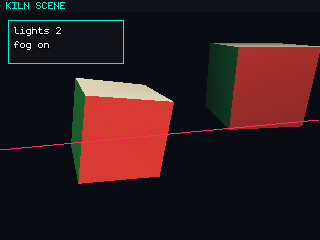
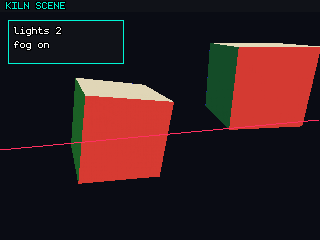
plat/host: fog is Tiny3D's clip-z ramp, blended per pixel, as the console draws it
Fixes: the host fogged vertex colour linearly over view depth from fog near
to fog far. Tiny3D's ucode does something else: t3d_fog_set_range uploads
offset = -2*near (s16.16) and scale = floor(16384/(far-near)), and per vertex
the RSP takes CLIP z, adds the offset, keeps the integer lane, multiplies by
the scale (saturating) and writes (32767 - that) >> 7 into shade alpha. With
Tiny3D's projection clip z = f*(d - 2n)/(f - n), so the fogged fraction is
about (clip_z - 2*near) / (2*(far - near)) and depends on the CAMERA's near
plane too. Fog 100..400 under a 10..2000 camera starts near d = 219 and is
total near d = 816; the host had it total at 400, so every demo tuned in Ares
rendered far foggier on PC (openworld-demo's island was fogged out entirely).
The host also ignored rdpq_mode_fog, so the RSP half alone fogged, and it
asserted on Tiny3D's (0,0) "fog off" range.

Now: host_t3d.c ports t3d_fog_set_range's formats and the ucode's lane
arithmetic, replaces shade alpha at vertex load, and blends toward the fog
colour per pixel only while rdpq_mode_fog is set (host_gfx.c stores it;
rdpq_set_mode_standard and set_mode_fill clear it). Shade alpha leaves the
combiner's alpha under fog, as rdpq arranges on console. The fog path uses
Tiny3D's own clip-z row, f/(n-f) and -2fn/(f-n): the host's projection
matrix is GL's (f+n)/(n-f), which drifts 12 alpha steps at a 60..1000
camera. Depth still uses the host's row; that is a separate mismatch.
[…]

Changed region(s): [[0.625, 0.175, 1.0, 0.5542]]

diff --git a/plat/host/src/host_t3d.c b/plat/host/src/host_t3d.c
@@ -90,7 +90,10 @@ static int        g_light_count;
 static struct { uint8_t color[4]; fm_vec3_t dir; } g_lights[8];
 
 static int        g_fog_on;
-static float      g_fog_near = 0.0f, g_fog_far = 1.0f;
+/* What t3d_fog_set_range uploads to the RSP, in the ucode's own formats:
+ * FOG_SCALE_OFFSET's s16.16 offset and s16 integer scale. (0,0) is off. */
+static int32_t    g_fog_offset;
+static int16_t    g_fog_scale;
 
 static KilnHostT3DCounters g_c;
 
@@ -349,11 +352,37 @@ void t3d_light_set_directional(int index, const uint8_t *color, const T3DVec3 *d
 /* ── fog ──────────────────────────────────────────────────────────────── */
 
 void t3d_fog_set_enabled(bool enabled) { g_fog_on = enabled; }
+/* Ported from Tiny3D's t3d.c line for line, formats included, because the
+ * obvious reading — "linear from near to far over view depth" — is not what
+ * the console does, and a host that fogged that way put every demo's fog
+ * about twice as close as the Ares captures that tuned it. See transform_vertex
+ * for what the RSP does with these two numbers. */
 void t3d_fog_set_range(float near, float far)
 {
+    if (near == 0.0f && far == 0.0f) {     /* Tiny3D's "off": alpha stays 255 */
+        g_fog_offset = 0;
+        g_fog_scale = 0;
+        return;
+    }
+    /* Stricter than Tiny3D, which accepts it and fogs inverted. Nothing here
+     * means to, and kiln_prim_stage already refuses such a range. */
     assertf(far > near, "t3d_fog_set_range: far %f <= near %f",
             (double)far, (double)near);
-    g_fog_near = near; g_fog_far = far;
+
+    float diff = far - near;
+    if (fabsf(diff) < 1.5f) diff = 1.5f;
+    float scale = floorf(16384.0f / diff);
+    if (scale < -32768.0f) scale = -32768.0f;
+    if (scale >  32767.0f) scale =  32767.0f;
+    g_fog_scale  = (int16_t)scale;
+    g_fog_offset = (int32_t)(-near * 2.0f * 65536.0f);   /* T3D_F32_TO_FIXED */
+}
+
+/* An s16.16 value's integer lane: floor, not truncation toward zero, which is
+ * what the RSP's separate int/fraction lanes mean for a negative number. */
+static inline int64_t floor_shr16(int64_t v)
+{
+    return v >= 0 ? v / 65536 : -((-v + 65535) / 65536);
 }
 
 /* ── vertices ─────────────────────────────────────────────────────────── */
@@ -519,14 +548,47 @@ static void transform_vertex(const fm_vec3_t *pos, const fm_vec3_t *nrm,
 
     shade(&n, rgba, o);
 
+    /* ── fog: the RSP half ──
+     * rsp_tiny3d.rspl, lane for lane. Fog does not touch the colour here: the
+     * ucode REPLACES shade alpha with a factor and the RDP blender lerps toward
+     * the fog colour by it, per pixel (t3d_tri_draw). The factor comes from
+     * CLIP-space z, not view depth:
+     *
+     *   posClip *= normScaleW     z lane scale is 0xFFFF (w gets 2/(n+f))
+     *   fog      = posClip + offset         s16.16, offset = -2*near
+     *   fog:sint *= scale                   vmudh: integer lane, saturating
+     *   VTEMP    = 32767 - fog.z            vsub, saturating -> 0..32767
+     *   VTEMP  <<= 1; store 16 bits at alpha, so alpha = VTEMP >> 7
+     *
+     * With Tiny3D's projection, clip z = f*(d - 2n)/(f - n) for view depth d
+     * and camera planes n, f, so the fogged fraction is close to
+     * (clip_z - 2*near) / (2*(far - near)): fog 100..400 under a 10..2000
+     * camera starts near d = 219 and is total near d = 816. Measured in Ares
+     * against this arithmetic to within 2% (nix/checks/kiln-prim-check.c). */
     if (g_fog_on) {
-        const float d = -ez;
-        float f = (d - g_fog_near) / (g_fog_far - g_fog_near);
-        f = fminf(fmaxf(f, 0.0f), 1.0f);
-        const color_t fc = kiln_hostfb_fog_color();
-        o->r = (uint8_t)(o->r + (fc.r - o->r) * f);
-        o->g = (uint8_t)(o->g + (fc.g - o->g) * f);
-        o->b = (uint8_t)(o->b + (fc.b - o->b) * f);
+        /* Tiny3D's OWN clip z, not o->z: t3d_mat4_perspective's z row is
+         * f/(n-f) and -2fn/(f-n), while t3d_viewport_set_projection above
+         * builds GL's (f+n)/(n-f) and 2fn/(n-f). The two agree when the
+         * camera's near plane is tiny against its far plane and part ways as
+         * it grows — a 60..1000 camera put this 12 alpha steps off at d=430.
+         * Only the fog reads the console's row; depth keeps the host's, which
+         * is a separate mismatch. Each coefficient is quantised to s16.16 as
+         * t3d_mat4_to_fixed quantises it. */
+        const float cn = g_vp->near_z, cf = g_vp->far_z;
+        const int32_t m22 = (int32_t)(cf / (cn - cf) * 65536.0f);
+        const int32_t m32 = (int32_t)(-2.0f * (cf * cn) / (cf - cn) * 65536.0f);
+        int64_t zc = (int64_t)floor((double)m22 * (double)ez) + m32;
+        const int64_t lim_lo = -((int64_t)32768 << 16), lim_hi = ((int64_t)32768 << 16) - 1;
+        if (zc < lim_lo) zc = lim_lo;
+        if (zc > lim_hi) zc = lim_hi;
+        zc = floor_shr16(zc * 0xFFFF);
+        int64_t lane = floor_shr16(zc + g_fog_offset);
+        lane = lane < -32768 ? -32768 : lane > 32767 ? 32767 : lane;
+        int64_t fs = lane * g_fog_scale;
+        fs = fs < -32768 ? -32768 : fs > 32767 ? 32767 : fs;
+        int64_t v = 32767 - fs;
+        if (v > 32767) v = 32767;
+        o->a = (uint8_t)(v >> 7);
     }
 
     const float iw = (o->w > 1e-6f) ? (1.0f / o->w) : 0.0f;
@@ -651,6 +713,18 @@ void t3d_tri_draw(uint32_t i0, uint32_t i1, uint32_t i2)
                 col = (color_t){ o[0].r, o[0].g, o[0].b, o[0].a };
             }
 
+            /* ── fog: the RDP half ──
+             * RDPQ_FOG_STANDARD is IN_RGB*SHADE_ALPHA + FOG_RGB*(1-SHADE_ALPHA),
+             * and with it on rdpq takes shade alpha OUT of the SHADE and
+             * TEX_SHADE combiners, so the factor fogs and does not also fade.
+             * Without rdpq_mode_fog the factor the RSP wrote is never read.
+             * The hardware blender works in 5-bit alpha; Ares' captures show
+             * no 32-step banding once its dither averages out, so this is the
+             * plain 8-bit lerp they measure as. */
+            const rdpq_blender_t fogmode = kiln_hostfb_fog_mode();
+            const uint8_t shade_alpha = col.a;
+            if (fogmode) col.a = 255;
+
             const rdpq_combiner_t comb = kiln_hostfb_combiner();
             if (have_tex) {
                 if (comb == RDPQ_COMBINER_TEX) {
@@ -668,6 +742,14 @@ void t3d_tri_draw(uint32_t i0, uint32_t i1, uint32_t i2)
                 /* SHADE and FLAT: the texel is discarded, exactly as on
                  * console. Counted so it is at least visible in the numbers. */
                 else g_c.texels_discarded++;
+            }
+
+            if (fogmode) {
+                const color_t fc = kiln_hostfb_fog_color();
+                const unsigned a = shade_alpha, ia = 255u - a;
+                col.r = (uint8_t)((col.r * a + fc.r * ia + 127) / 255);
+                col.g = (uint8_t)((col.g * a + fc.g * ia + 127) / 255);
+                col.b = (uint8_t)((col.b * a + fc.b * ia + 127) / 255);
             }
 
             kiln_hostfb_put_z(x, y, (uint16_t)(z * 65535.0f), col, ztest, zwrite);

diff --git a/nix/checks/kiln-prim-check.c b/nix/checks/kiln-prim-check.c
@@ -20,6 +20,12 @@
  *               child, as the ucode's push multiplies). A box offset +70 on X
  *               under a parent turned 180 degrees must land at -70; the host
  *               once multiplied the other way round and put it at +70.
+ *   fog         a white quad at a known view depth comes out at the fraction
+ *               Tiny3D's ucode computes, measured against Ares: the range
+ *               lands on CLIP z with near doubled, so it depends on the
+ *               camera's near plane, and it needs rdpq_mode_fog as well as
+ *               t3d_fog_set_enabled. The host once fogged linearly from near
+ *               to far over view depth, far too close to the camera.
  */
 #include <kiln_engine.h>
 #include <kiln_gui.h>
@@ -100,6 +106,92 @@ static unsigned check_quads(const char *what, const KilnPrim *p)
         }
     }
     return axes;
+}
+
+/* ── fog, as the console maps a range onto depth ──────────────────────────
+ * Tiny3D's ucode does not fog linearly over view depth from near to far.
+ * t3d_fog_set_range stores offset = -2*near (s16.16) and scale =
+ * floor(16384 / (far - near)); per vertex the RSP takes CLIP-space z, adds the
+ * offset, keeps the integer lane, multiplies by the scale (saturating), and
+ * writes (32767 - that) >> 7 into shade alpha. Clip z is
+ * cam_far * (d - 2*cam_near) / (cam_far - cam_near), so the fogged fraction is
+ * about (clip_z - 2*near) / (2*(far - near)) and moves with the CAMERA's near
+ * plane too. The blender then lerps IN toward the fog colour by shade alpha.
+ *
+ * The expected values below are that integer arithmetic, and each was measured
+ * in Ares with white quads under black fog (examples/fogprobe, not committed):
+ * the capture's patch mean over its fog-off calibration, times 255, is quoted
+ * beside each. They agree to within 4 of 255. The host used to fog linearly
+ * from near to far over view depth, which gives 51 / 0 / 0 for case A. */
+static T3DVertPacked g_fq[6];
+static const float FOG_NDCX[3] = { -0.6f, 0.0f, 0.6f };
+
+static void fog_quad(int q, float ndcx, int d)
+{
+    const float sx = (float)d * 0.57735f * (320.0f / 240.0f), sy = (float)d * 0.57735f;
+    const int16_t x0 = (int16_t)((ndcx - 0.15f) * sx), x1 = (int16_t)((ndcx + 0.15f) * sx);
+    const int16_t y0 = (int16_t)(-0.15f * sy), y1 = (int16_t)(0.15f * sy), z = (int16_t)-d;
+    const int16_t P[4][3] = { { x0, y0, z }, { x1, y0, z }, { x1, y1, z }, { x0, y1, z } };
+    T3DVec3 n = {{ 0, 0, 1 }};
+    const uint16_t pn = t3d_vert_pack_normal(&n);
+    for (int c = 0; c < 4; c++) {
+        const int vi = q * 4 + c;
+        T3DVertPacked *e = &g_fq[vi / 2];
+        if (vi & 1) {
+            memcpy(e->posB, P[c], sizeof P[c]); e->normB = pn; e->rgbaB = 0xFFFFFFFF;
+            e->stB[0] = e->stB[1] = 0;
+        } else {
+            memcpy(e->posA, P[c], sizeof P[c]); e->normA = pn; e->rgbaA = 0xFFFFFFFF;
+            e->stA[0] = e->stA[1] = 0;
+        }
+    }
+}
+
+typedef struct {
+    const char *what;
+    float fog_near, fog_far, cam_near, cam_far;
+    int rdp_fog;            /* 0: the RSP half only, as if rdpq_mode_fog were never called */
+    int d[3], want[3];
+} FogCase;
+
+static void fog_case(const FogCase *c)
+{
+    KilnScene s;
+    kiln_scene_init(&s);
+    s.fov_deg = 60.0f;
+    s.near_z = c->cam_near;
+    s.far_z = c->cam_far;
+    s.cam_pos = (fm_vec3_t){{ 0, 0, 0 }};
+    s.cam_target = (fm_vec3_t){{ 0, 0, -100 }};
+    s.cam_up = (fm_vec3_t){{ 0, 1, 0 }};
+    s.ambient[0] = s.ambient[1] = s.ambient[2] = s.ambient[3] = 0xFF;
+    s.light_count = 0;
+    s.clear_color = RGBA32(0, 0, 0, 0xFF);
+    kiln_scene_set_fog(&s, RGBA32(0, 0, 0, 0xFF), c->fog_near, c->fog_far);
+    kiln_scene_update(&s);
+    for (int i = 0; i < 3; i++) fog_quad(i, FOG_NDCX[i], c->d[i]);
+
+    kiln_frame_begin();
+      kiln_scene_begin(&s);
+        if (!c->rdp_fog) rdpq_mode_fog(0);
+        t3d_vert_load(g_fq, 0, 12);
+        for (uint32_t i = 0; i < 3; i++) {
+            t3d_tri_draw(i * 4, i * 4 + 1, i * 4 + 2);
+            t3d_tri_draw(i * 4, i * 4 + 2, i * 4 + 3);
+        }
+        t3d_tri_sync();
+      kiln_gui_begin();
+      kiln_gui_end();
+    kiln_frame_end();
+
+    for (int i = 0; i < 3; i++) {
+        const int x = (int)((FOG_NDCX[i] + 1.0f) * 160.0f);
+        const int got = g_frame_w == 320 ? g_frame[(120 * 320 + x) * 4] : -1;
+        printf("  fog %s: depth %d -> %d (console %d)\n", c->what, c->d[i], got, c->want[i]);
+        CHECK(got >= c->want[i] - 3 && got <= c->want[i] + 3,
+              "fog %s: a white quad at view depth %d came out %d; the console's "
+              "ucode gives %d", c->what, c->d[i], got, c->want[i]);
+    }
 }
 
 int main(void)
@@ -242,6 +334,31 @@ int main(void)
         kiln_transform_free(&outer);
         kiln_transform_free(&inner);
         kiln_prim_free(&marker);
+    }
+
+    /* ── fog: see fog_case above ── */
+    {
+        /* Ares, as patch mean / fog-off mean * 255: 207.7 130.6 52.5 */
+        const FogCase a = { "100..400 cam 10..2000", 100, 400, 10, 2000, 1,
+                            { 340, 520, 700 }, { 204, 128, 52 } };
+        /* The same range under a camera near plane of 60 fogs LESS at the same
+         * depth. Ares: 204.5 122.4 35.0. A mapping over view depth alone —
+         * 2*near..2*far included — cannot produce this row and row A both. */
+        const FogCase b = { "100..400 cam 60..1000", 100, 400, 60, 1000, 1,
+                            { 430, 610, 800 }, { 201, 120, 35 } };
+        /* The RSP half without rdpq_mode_fog: the ucode writes the factor into
+         * shade alpha and the blender never reads it. No fog, as kiln_engine.c
+         * found on console. */
+        const FogCase d = { "RSP only", 100, 400, 10, 2000, 0,
+                            { 340, 520, 700 }, { 255, 255, 255 } };
+        /* (0,0) is Tiny3D's "fog off": offset 0 and scale 0, so alpha stays
+         * 255 at every depth. Last, because the old host asserted on it. */
+        const FogCase z = { "range 0..0", 0, 0, 10, 2000, 1,
+                            { 150, 700, 1500 }, { 255, 255, 255 } };
+        fog_case(&a);
+        fog_case(&b);
+        fog_case(&d);
+        fog_case(&z);
     }
 
     kiln_transform_free(&t);

diff --git a/plat/host/src/host_gfx.c b/plat/host/src/host_gfx.c
@@ -66,6 +66,7 @@ static KilnHostCounters g_cnt;
 /* ── rdpq mode state ───────────────────────────────────────────────────── */
 static rdpq_combiner_t g_comb;
 static rdpq_blender_t  g_blend;
+static rdpq_blender_t  g_fogmode;
 static color_t         g_prim  = { 255, 255, 255, 255 };
 static color_t         g_fog   = { 0, 0, 0, 255 };
 static int             g_attached;
@@ -189,8 +190,9 @@ void rdpq_set_mode_standard(void)
      * resetting the combiner it sets afterwards. */
     g_comb  = RDPQ_COMBINER_FLAT;
     g_blend = 0;
+    g_fogmode = 0;
 }
-void rdpq_set_mode_fill(color_t c)      { g_comb = RDPQ_COMBINER_FLAT; g_blend = 0; g_prim = c; }
+void rdpq_set_mode_fill(color_t c)      { g_comb = RDPQ_COMBINER_FLAT; g_blend = 0; g_fogmode = 0; g_prim = c; }
 void rdpq_mode_combiner(rdpq_combiner_t comb) { g_comb = comb; }
 rdpq_combiner_t kiln_hostfb_combiner(void) { return g_comb; }
 void rdpq_mode_blender(rdpq_blender_t b)      { g_blend = b; }
@@ -204,7 +206,8 @@ int  kiln_hostfb_zwrite(void) { return g_zwrite; }
  * was flat and opaque, and kiln_gui_begin sets 0. */
 static int g_alphacmp;
 void rdpq_mode_alphacompare(int t)      { g_alphacmp = t; }
-void rdpq_mode_fog(rdpq_blender_t f)    { (void)f; }
+void rdpq_mode_fog(rdpq_blender_t f)    { g_fogmode = f; }
+rdpq_blender_t kiln_hostfb_fog_mode(void) { return g_fogmode; }
 void rdpq_mode_antialias(int m)         { (void)m; }
 void rdpq_set_prim_color(color_t c)     { g_prim = c; }
 void rdpq_set_fog_color(color_t c)      { g_fog = c; }

diff --git a/plat/host/src/host_internal.h b/plat/host/src/host_internal.h
@@ -64,6 +64,12 @@ int kiln_hostfb_zwrite(void);
  *  through the same call the engine makes so the two cannot disagree. */
 color_t kiln_hostfb_fog_color(void);
 
+/** The caller's last rdpq_mode_fog, 0 when off. Reset by rdpq_set_mode_standard
+ *  (which t3d_frame_start calls) as libdragon resets it. Fog is two halves: the
+ *  RSP writes the factor into shade alpha at vertex load, and only this, the
+ *  RDP half, makes the blender read it. */
+rdpq_blender_t kiln_hostfb_fog_mode(void);
+
 /** The combiner the caller last selected. The 3D pass needs it to know whether
  *  a sampled texel actually reaches the framebuffer — see host_tex.c. */
 rdpq_combiner_t kiln_hostfb_combiner(void);
